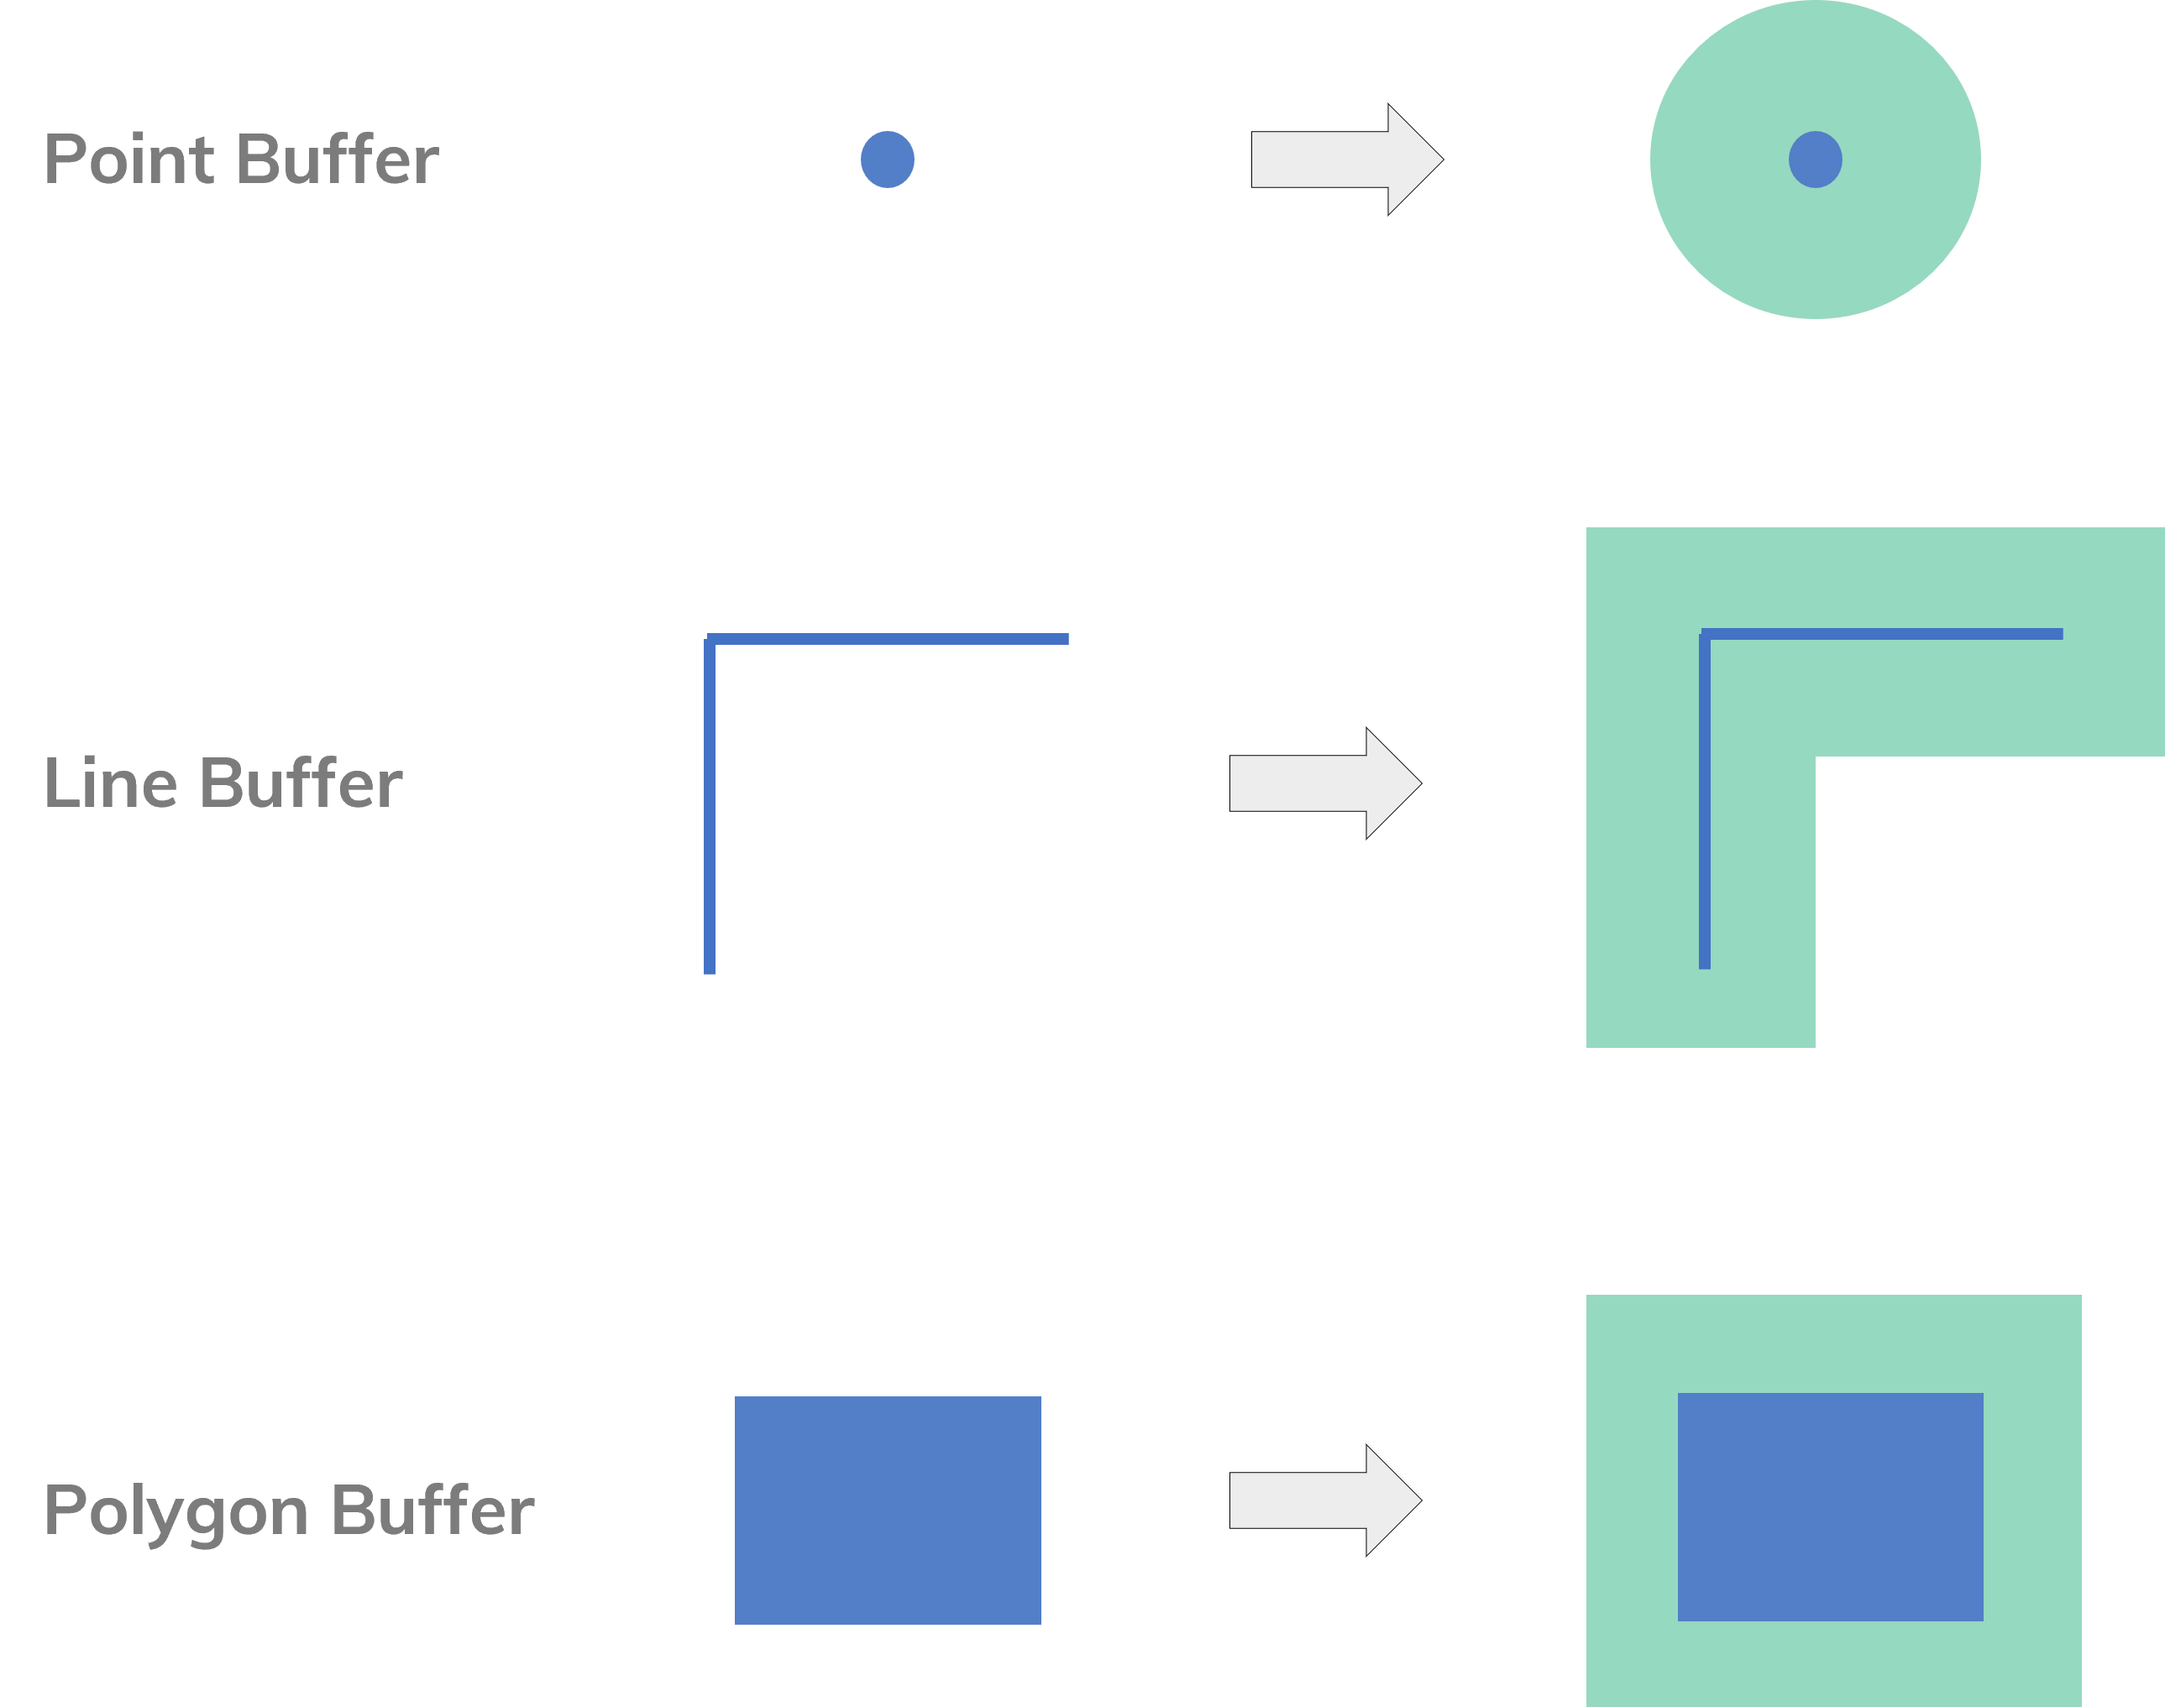
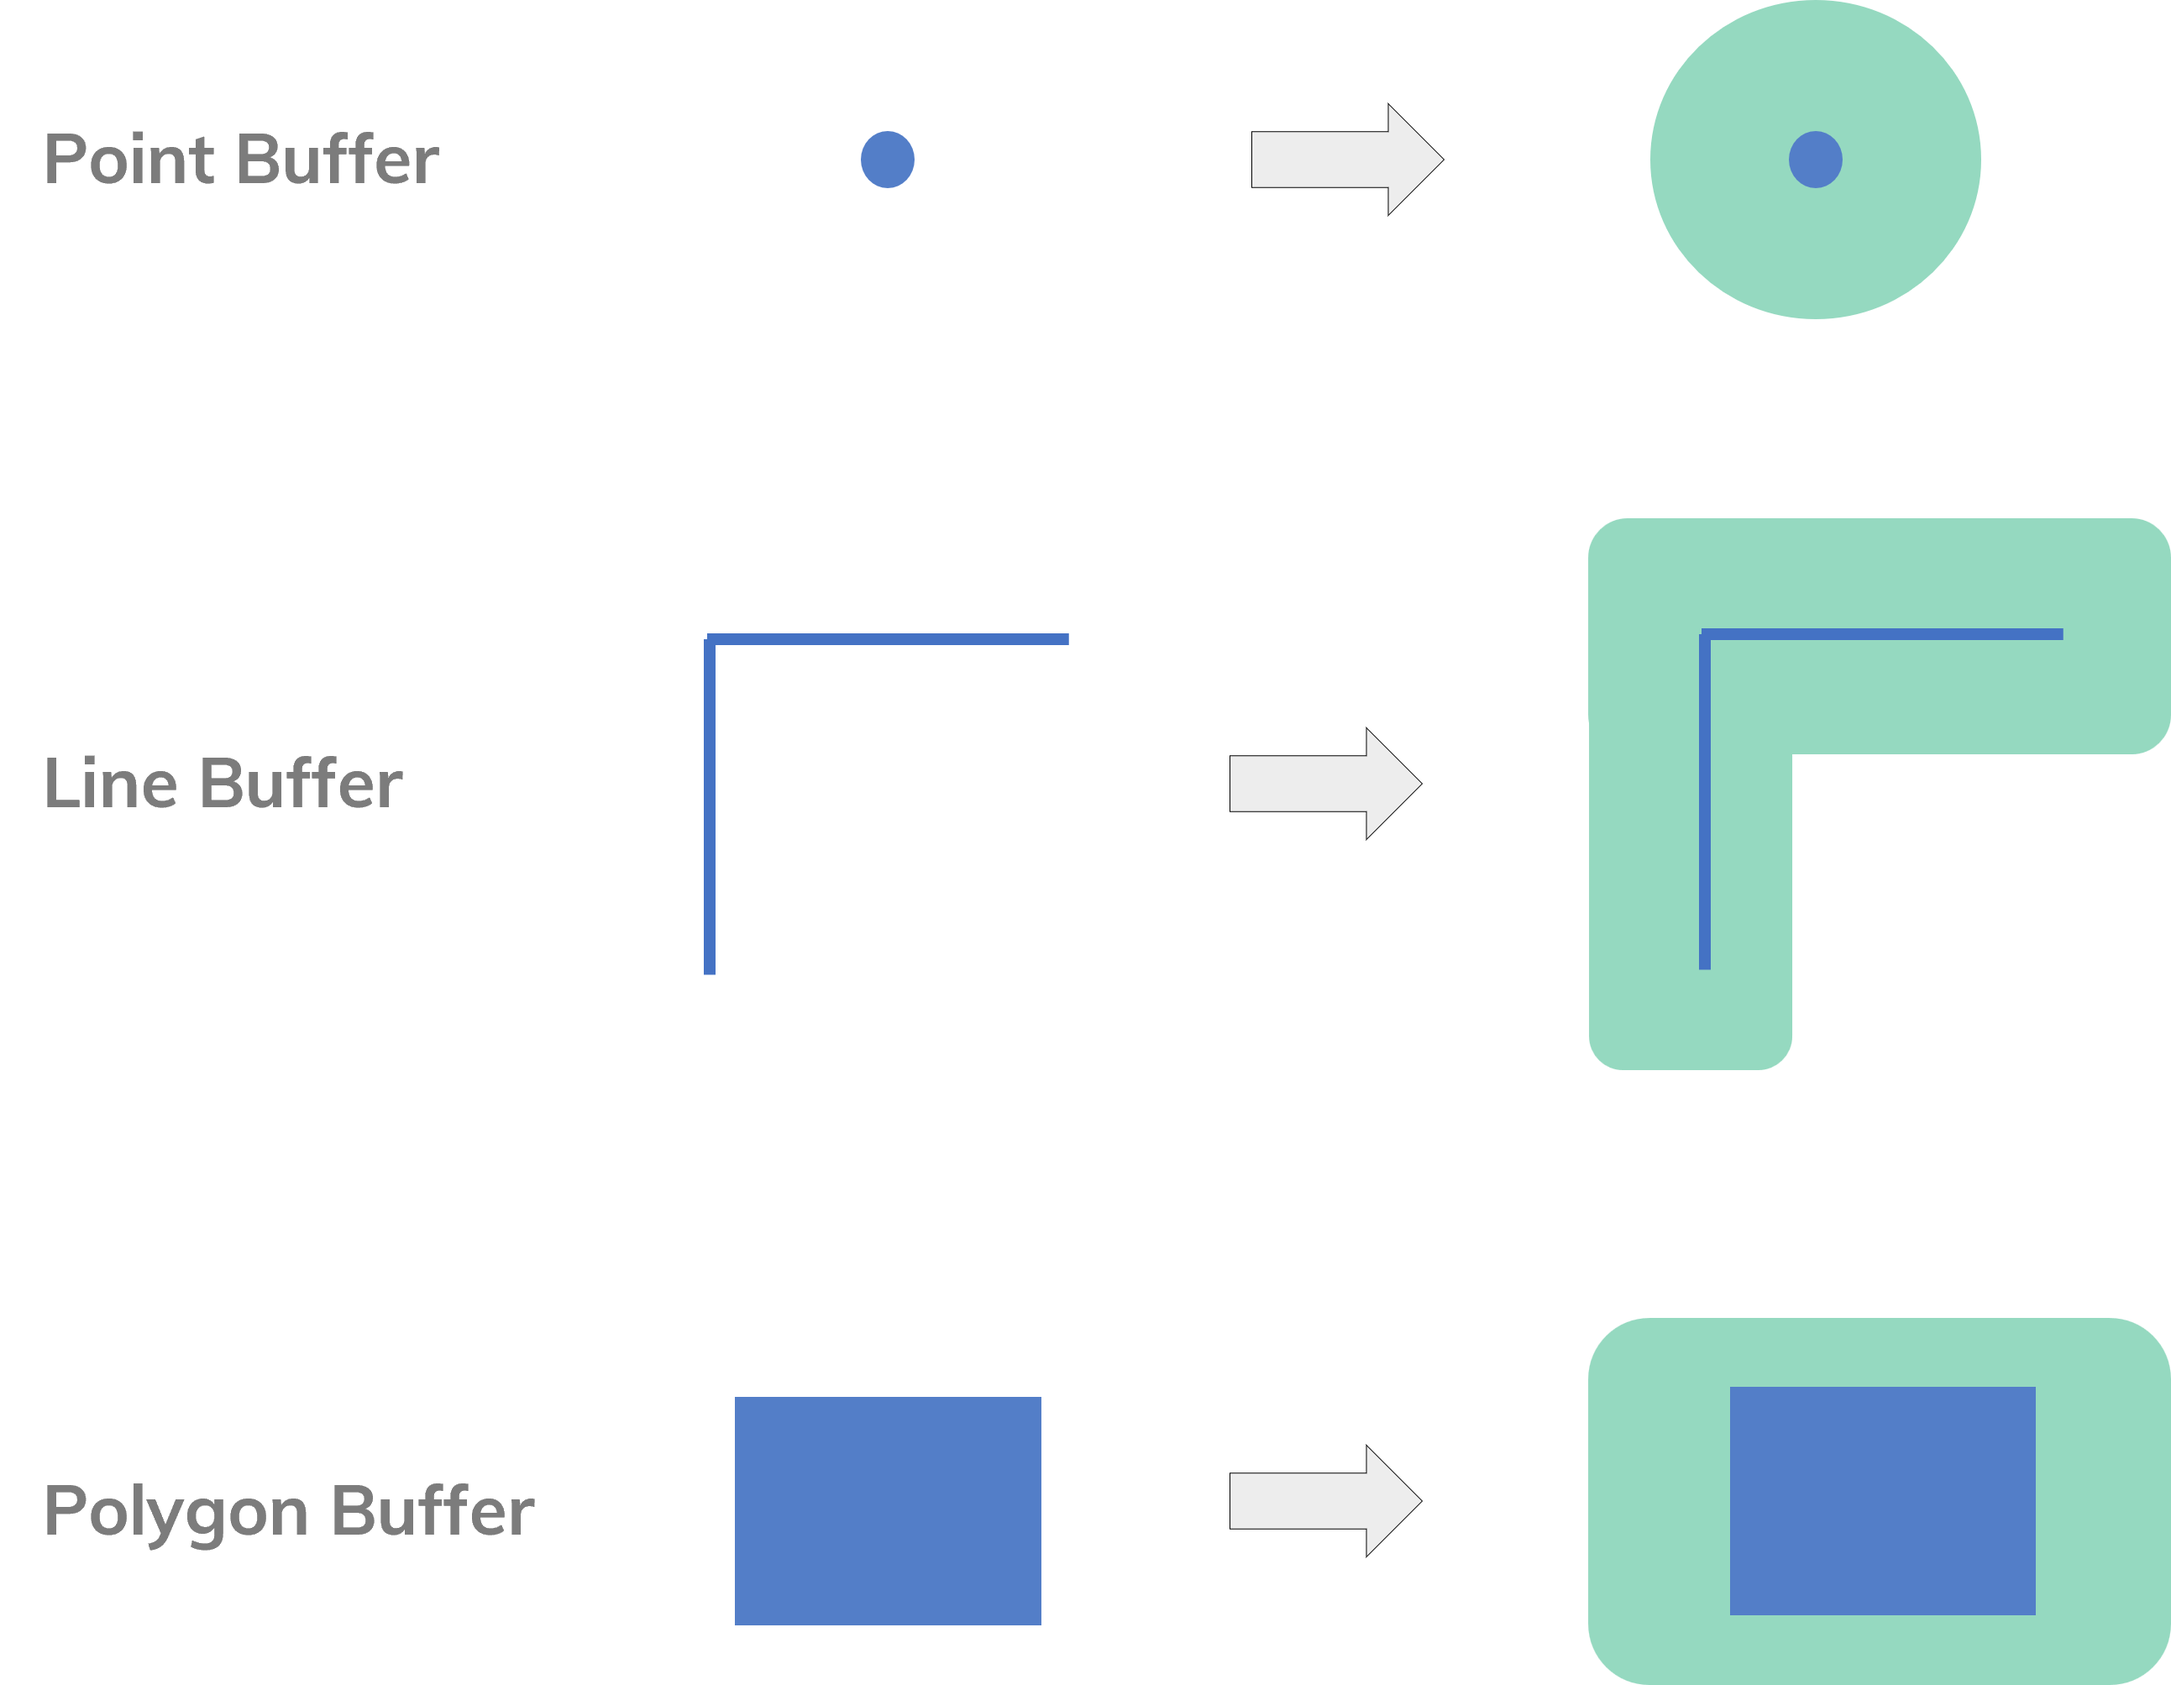
updates on buffer

diff --git a/docs/toolbox/geoprocessing/buffer.md b/docs/toolbox/geoprocessing/buffer.md
@@ -10,8 +10,7 @@ import TabItem from '@theme/TabItem';
 
 # Buffer
 
-The buffer creates a **circle** around given starting **points, lines or polygons** with a specified buffer distance. 
-
+The buffer creates a **zone around** given **points, lines or polygons** with a specified buffer distance.
 
 ## 1. Explanation
 
